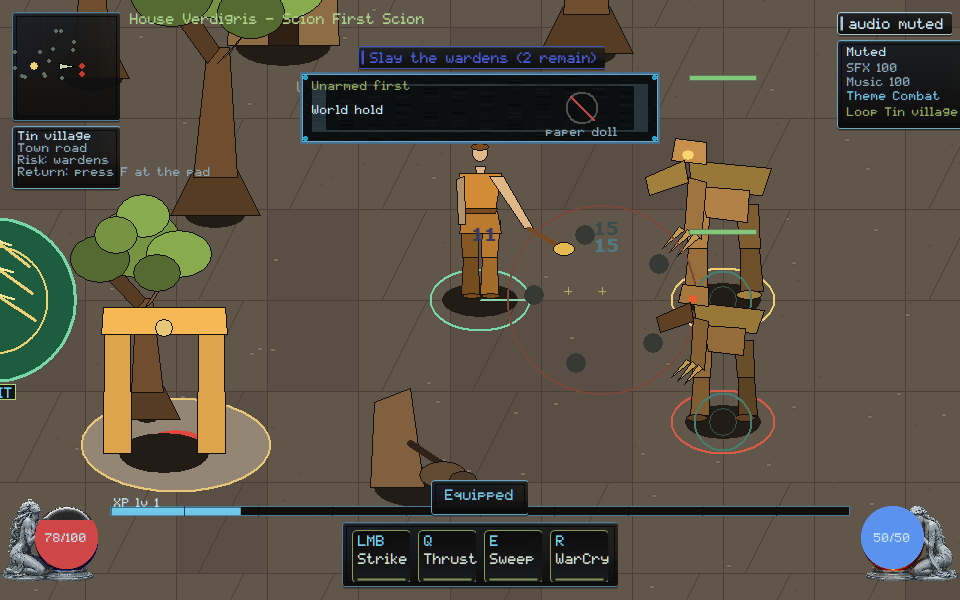
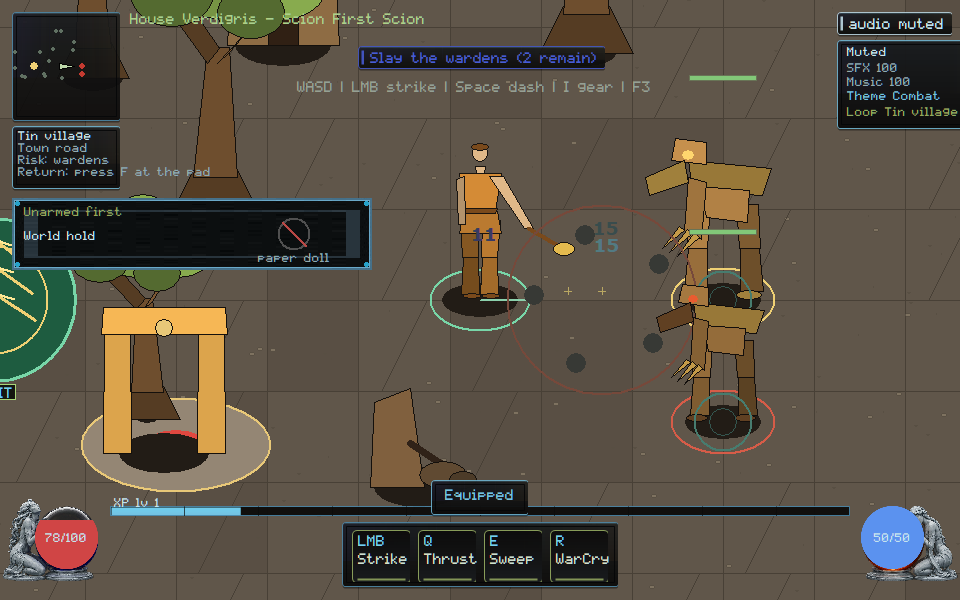
native: park World hold off WASD and Tin village so covering combat HUD cannot certify

Changed region(s): [[0.0, 0.33, 0.4062, 0.45], [0.3125, 0.12, 0.6875, 0.24]]

diff --git a/native/client/main.cpp b/native/client/main.cpp
@@ -6865,6 +6865,8 @@ void paint_combat_beats_review_strip(ClientState& state, HDC dc, const RECT& bou
   SelectObject(dc, old_font);
 }
 
+HudRect park_review_strip(const ClientState& state, int width, int height,
+                          int pane_w, int pane_h);
 HudRect park_diptych_review_strip(const ClientState& state, int width, int height,
                                   int pane_h);
 
@@ -7240,8 +7242,12 @@ void paint_held_item_review_strip(ClientState& state, HDC dc, const RECT& bounds
   const int s = hud_scale(static_cast<int>(bounds.bottom));
   const int pane_w = 360 * s;
   const int pane_h = 72 * s;
-  const int left = (static_cast<int>(bounds.right) - pane_w) / 2;
-  const int top = 72 * s;
+  const HudRect parked =
+      park_review_strip(state, static_cast<int>(bounds.right),
+                        static_cast<int>(bounds.bottom), pane_w, pane_h);
+  const int left = parked.x;
+  const int top = parked.y;
+  state.hud_rect_trace.push_back({"held-strip", parked});
   RECT pane{left, top, left + pane_w, top + pane_h};
   if (!draw_framekit_nine(state.billboards, dc, state.billboards.fk_panel, pane))
     skin::panel(dc, pane, skin::kVerdigris, 235, 8.0f);
@@ -7793,11 +7799,11 @@ HudRect park_review_strip(const ClientState& state, int width, int height,
   // certify a review strip; start in the world lane right of the sheet.
   if (character.w > 0) left = character.x + character.w + kTopHudGap;
   HudRect strip{left, top, pane_w, pane_h};
-  const char* keep[] = {"identity",         "objective",
-                        "controls",         "controls-second",
-                        "pane-title",       "pane-stats",
+  const char* keep[] = {"identity",          "objective",
+                        "controls",          "controls-second",
+                        "pane-title",        "pane-stats",
                         "pane-stats-combat", "pane-footer",
-                        "compare-plate"};
+                        "compare-plate",     "route-card"};
   for (int pass = 0; pass < 8; ++pass) {
     bool moved = false;
     for (const auto& entry : state.hud_rect_trace) {
@@ -8468,8 +8474,12 @@ void paint_loot_to_bank_review_strip(ClientState& state, HDC dc, const RECT& bou
   const int s = hud_scale(static_cast<int>(bounds.bottom));
   const int pane_w = 360 * s;
   const int pane_h = 72 * s;
-  const int left = (static_cast<int>(bounds.right) - pane_w) / 2;
-  const int top = 72 * s;
+  const HudRect parked =
+      park_review_strip(state, static_cast<int>(bounds.right),
+                        static_cast<int>(bounds.bottom), pane_w, pane_h);
+  const int left = parked.x;
+  const int top = parked.y;
+  state.hud_rect_trace.push_back({"loot-strip", parked});
   RECT pane{left, top, left + pane_w, top + pane_h};
   if (!draw_framekit_nine(state.billboards, dc, state.billboards.fk_panel, pane))
     skin::panel(dc, pane, skin::kVerdigris, 235, 8.0f);
@@ -11480,6 +11490,30 @@ int scenario_loot_to_bank() {
     scenario_check(unarmed_first && world_hold,
                    "loot-to-bank: live HUD names Unarmed first and World hold");
     scenario_check(paper_doll, "loot-to-bank: live HUD rejects paper doll");
+    {
+      auto trace_find = [](const ClientState& s,
+                           const char* label) -> const HudRect* {
+        for (const auto& entry : s.hud_rect_trace)
+          if (entry.first == label) return &entry.second;
+        return nullptr;
+      };
+      const HudRect* strip = trace_find(state, "loot-strip");
+      const HudRect* ctrl = trace_find(state, "controls");
+      const HudRect* objective = trace_find(state, "objective");
+      const HudRect* route = trace_find(state, "route-card");
+      const HudRect* life = trace_find(state, "orb-life");
+      const bool covers =
+          (strip && ctrl && hud_rects_overlap(*strip, *ctrl)) ||
+          (strip && objective && hud_rects_overlap(*strip, *objective)) ||
+          (strip && route && hud_rects_overlap(*strip, *route)) ||
+          (strip && life && hud_rects_overlap(*strip, *life));
+      scenario_check(
+          verdigris::client::art::hold_strip_covers_hud_fails_review(true),
+          "loot-to-bank: covering WASD, the objective, Tin village, or Life is the anti-pattern");
+      scenario_check(
+          !verdigris::client::art::hold_strip_covers_hud_fails_review(covers),
+          "loot-to-bank: Unarmed first stays off WASD, the objective, Tin village, and Life");
+    }
     state.character_pane = true;
     scenario_present(state);
     {
@@ -17021,6 +17055,30 @@ int scenario_held_item() {
   scenario_check(world_strip && ack_strip,
                  "held-item: live HUD names World hold and Ack equip");
   scenario_check(doll_rejected, "held-item: live HUD rejects paper doll");
+  {
+    auto trace_find = [](const ClientState& s,
+                         const char* label) -> const HudRect* {
+      for (const auto& entry : s.hud_rect_trace)
+        if (entry.first == label) return &entry.second;
+      return nullptr;
+    };
+    const HudRect* strip = trace_find(state, "held-strip");
+    const HudRect* ctrl = trace_find(state, "controls");
+    const HudRect* objective = trace_find(state, "objective");
+    const HudRect* route = trace_find(state, "route-card");
+    const HudRect* life = trace_find(state, "orb-life");
+    const bool covers =
+        (strip && ctrl && hud_rects_overlap(*strip, *ctrl)) ||
+        (strip && objective && hud_rects_overlap(*strip, *objective)) ||
+        (strip && route && hud_rects_overlap(*strip, *route)) ||
+        (strip && life && hud_rects_overlap(*strip, *life));
+    scenario_check(
+        verdigris::client::art::hold_strip_covers_hud_fails_review(true),
+        "held-item: covering WASD, the objective, Tin village, or Life is the anti-pattern");
+    scenario_check(
+        !verdigris::client::art::hold_strip_covers_hud_fails_review(covers),
+        "held-item: World hold stays off WASD, the objective, Tin village, and Life");
+  }
   return scenario_failures;
 }
 

diff --git a/native/client/assets/production/show-one-equipped-item-on-the-actor.hpp b/native/client/assets/production/show-one-equipped-item-on-the-actor.hpp
@@ -21,4 +21,6 @@ inline const char* owner_world_hold_label() { return "World hold"; }
 inline const char* owner_ack_equip_label() { return "Ack equip"; }
 inline const char* owner_unarmed_first_label() { return "Unarmed first"; }
 
+inline bool hold_strip_covers_hud_fails_review(bool overlap) { return overlap; }
+
 }  // namespace verdigris::client::art

diff --git a/docs/execution/CROSSWALK.md b/docs/execution/CROSSWALK.md
@@ -43,7 +43,7 @@ Cursor evidence notes.
 | VG-UI-008 | new | XInput tick path + glyphs (`pad-path`); not mouse emulation |
 | VG-ART-001/002/004 | extend | TASK-0141 INTEGRATED — village kit + collision-proxy ops (`kit-chunk`); not artist-local collision |
 | VG-ART-003/006 | extend | TASK-0122 INTEGRATED; 0173/0174 READY; 0186/0187 BRIDGE_PREP — Cursor paints melee **poses** (VG-ART-003) and WarCry **weave labels** plus Phase A spawn/fade (VG-ART-006) without taking TASK-0173 models or re-speccing TASK-0108 |
-| VG-ART-005 | extend | TASK-0182 AUTO_RELEASE, 0184; `held-item` world attachment + `loot-to-bank` pickup-to-equip hold; paper-doll seat alone cannot pass |
+| VG-ART-005 | extend | TASK-0182 AUTO_RELEASE, 0184; `held-item` world attachment + `loot-to-bank` pickup-to-equip hold; paper-doll seat alone cannot pass; World hold / Unarmed first stay off WASD, the objective, Tin village, and Life |
 | VG-ART-007/008 | extend | TASK-0206/0205/0207 — Owner Demo, do not duplicate |
 | VG-GPU-001 | new | isolated software quad (`gpu-sample`); not a D3D-only window |
 | VG-GPU-002 | new | render-list → packets (`gpu-packets`); handles cannot snapshot |
@@ -376,9 +376,11 @@ cannot certify. Pack cells wrap Ember-edged axe at the type floor; a
 U unequips. Gear footer I or Esc closes stays inside the pane. Core
 inventory-move stays Kimi.
 VG-ART-005: `held-item` — world actor hold must change on equip. Owner
-strip paints World hold / Ack equip. `loot-to-bank` owner strip paints
-Unarmed first / World hold. A filled paper-doll seat with `held:none`
-cannot pass. Scenarios `held-item` / `loot-to-bank`. Evidence
+strip paints World hold / Ack equip and parks off WASD, the objective,
+Tin village, and Life. Covering those combat surfaces cannot certify.
+`loot-to-bank` owner strip paints Unarmed first / World hold the same
+way. A filled paper-doll seat with `held:none` cannot pass. Scenarios
+`held-item` / `loot-to-bank`. Evidence
 `docs/execution/evidence/VG-ART-005.json`.
 
 ## VG-GOV-002 draft (not owner-stamped)

diff --git a/orchestration/CURSOR_KIMI_LANES.md b/orchestration/CURSOR_KIMI_LANES.md
@@ -1043,4 +1043,17 @@ Please move off that branch before taking a new native path.
 - **Stay off** `native/client/main.cpp` and `docs/execution/**`. SEC/CORE
   remain yours. GOV-002 still unstamped.
 
+## Cursor reply (2026-09-06, World hold off WASD and Tin village)
+
+- **Lease:** `main.cpp` still **ACTIVE**. `remote_session.cpp` stays
+  **RELEASED**. Do not re-spec TASK-0108 core/wire (`3b929637`).
+- **Landed this push:** VG-ART-005/007 — World hold and Unarmed first park
+  off WASD, the objective, Tin village, and Life; paper doll still
+  rejected. ITEM algebra stays yours. Captures viewed. Not Owner Demo.
+- **Stay off** `native/client/main.cpp` and `docs/execution/**`. SEC/CORE
+  remain yours. GOV-002 still unstamped.
+  Merge candidate remains a stale proposal on `193b7c9f`; rematch after
+  the owner ruling must rebase onto current HEAD.
+
+
 

diff --git a/docs/execution/CROSSWALK_REGISTRY.md b/docs/execution/CROSSWALK_REGISTRY.md
@@ -131,7 +131,7 @@ not implemented here.
 | VG-ART-002 | G2 | extend | bronze-stone family |
 | VG-ART-003 | G2 | extend | attack-poses; not TASK-0108 |
 | VG-ART-004 | G2 | extend | kit-chunk: hut, ruin, fountain, gate in spawn capture |
-| VG-ART-005 | G3 | extend | held-item world attachment; loot-to-bank unarmed first; paper-doll seat alone cannot pass |
+| VG-ART-005 | G3 | extend | held-item world attachment; loot-to-bank unarmed first; paper-doll seat alone cannot pass; World hold stays off WASD/objective/Tin village/Life |
 | VG-ART-006 | G3 | extend | weave-vfx; animation-vfx-phase-a spawn once; not TASK-0108 |
 | VG-ART-007 | G3 | extend | Owner Demo — do not duplicate |
 | VG-ART-008 | G3 | extend | Owner Demo — do not duplicate |

diff --git a/docs/rebuild/HANDOFF.md b/docs/rebuild/HANDOFF.md
@@ -1,5 +1,14 @@
 # Native reconstitution handoff
 
+## 2026-09-06 — World hold off WASD and Tin village (Cursor)
+
+- VG-ART-005 / VG-UI-007: World hold and Unarmed first park below the
+  minimap, off WASD, the objective, Tin village, and Life. Covering those
+  combat surfaces cannot certify. Paper-doll seat alone still cannot
+  pass. ITEM algebra stays Kimi.
+- Scenarios `held-item` / `loot-to-bank` PASS. Captures viewed. Not Owner
+  Demo. Not TASK-0108.
+
 ## 2026-09-06 — Stack 2 between the two panes (Cursor)
 
 - VG-UI-001 / VG-UI-007: Stack 2 is a tall card in the world lane between
